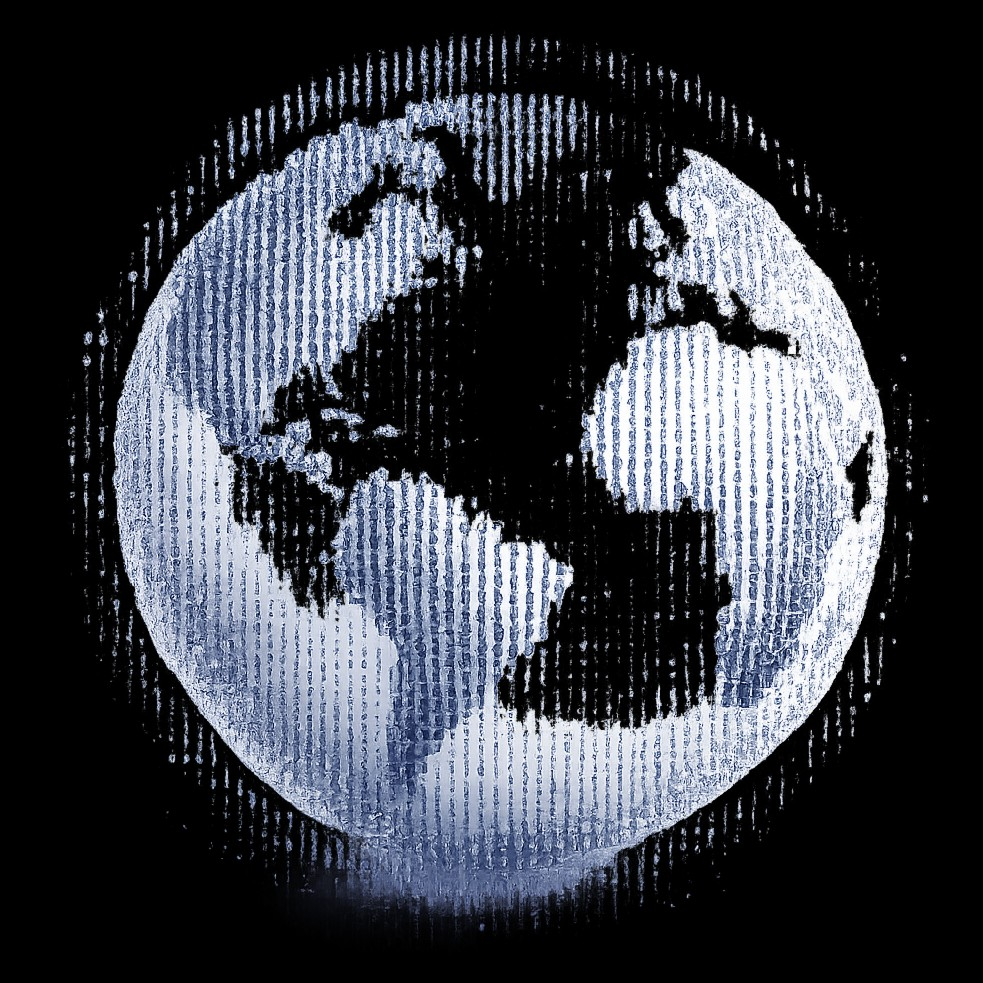
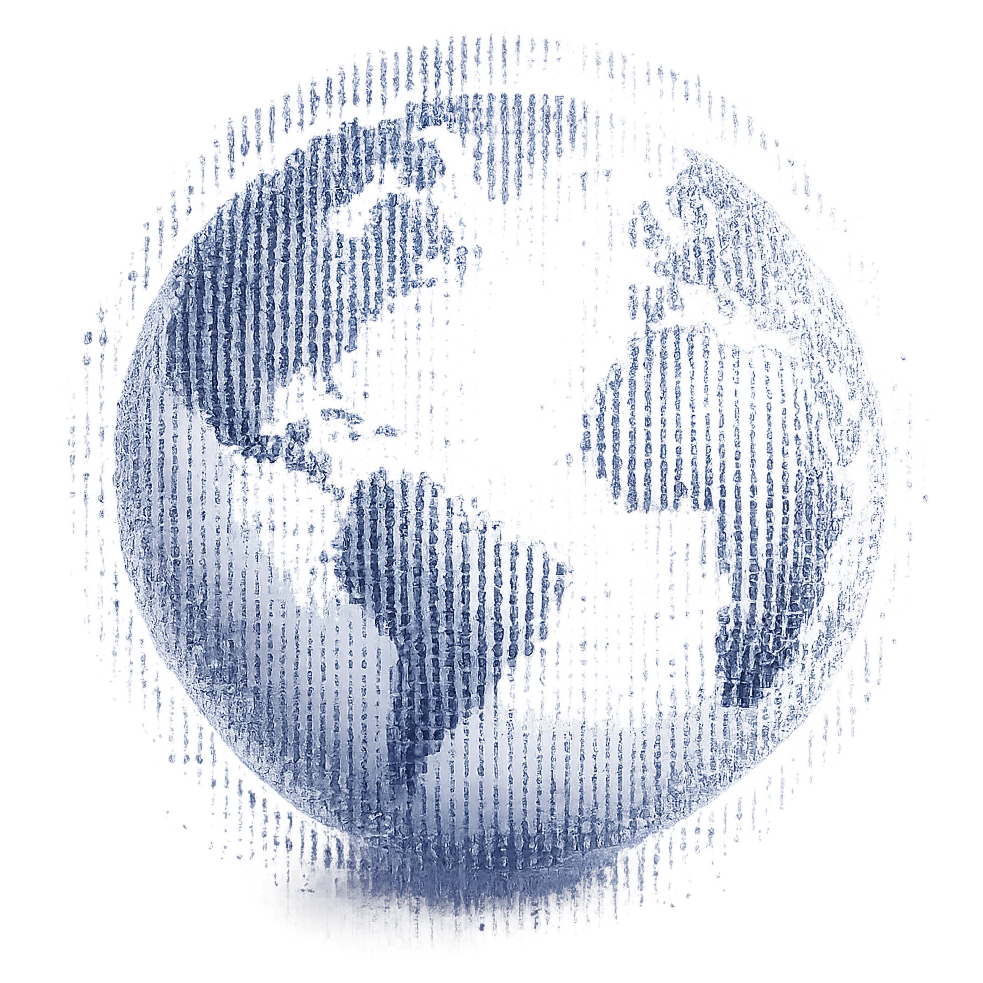
Fix hero image

diff --git a/ventisei/styles/sections.css b/ventisei/styles/sections.css
@@ -707,7 +707,7 @@ body.is-mobile-nav-open {
 @media (min-width: 900px) {
   .hero-split {
     display: grid;
-    grid-template-columns: minmax(0, 1.05fr) minmax(0, 0.85fr);
+    grid-template-columns: minmax(0, 1fr) minmax(0, 1fr);
     gap: clamp(24px, 4vw, 56px);
     align-items: center;
   }
@@ -2188,8 +2188,8 @@ body.is-mobile-nav-open {
   }
 
   .hero-visual {
-    min-height: clamp(140px, 38vw, 200px);
-    max-height: 220px;
+    min-height: clamp(140px, 250vw, 250px);
+    max-height: 250px;
   }
 
   .hero-visual__stack {